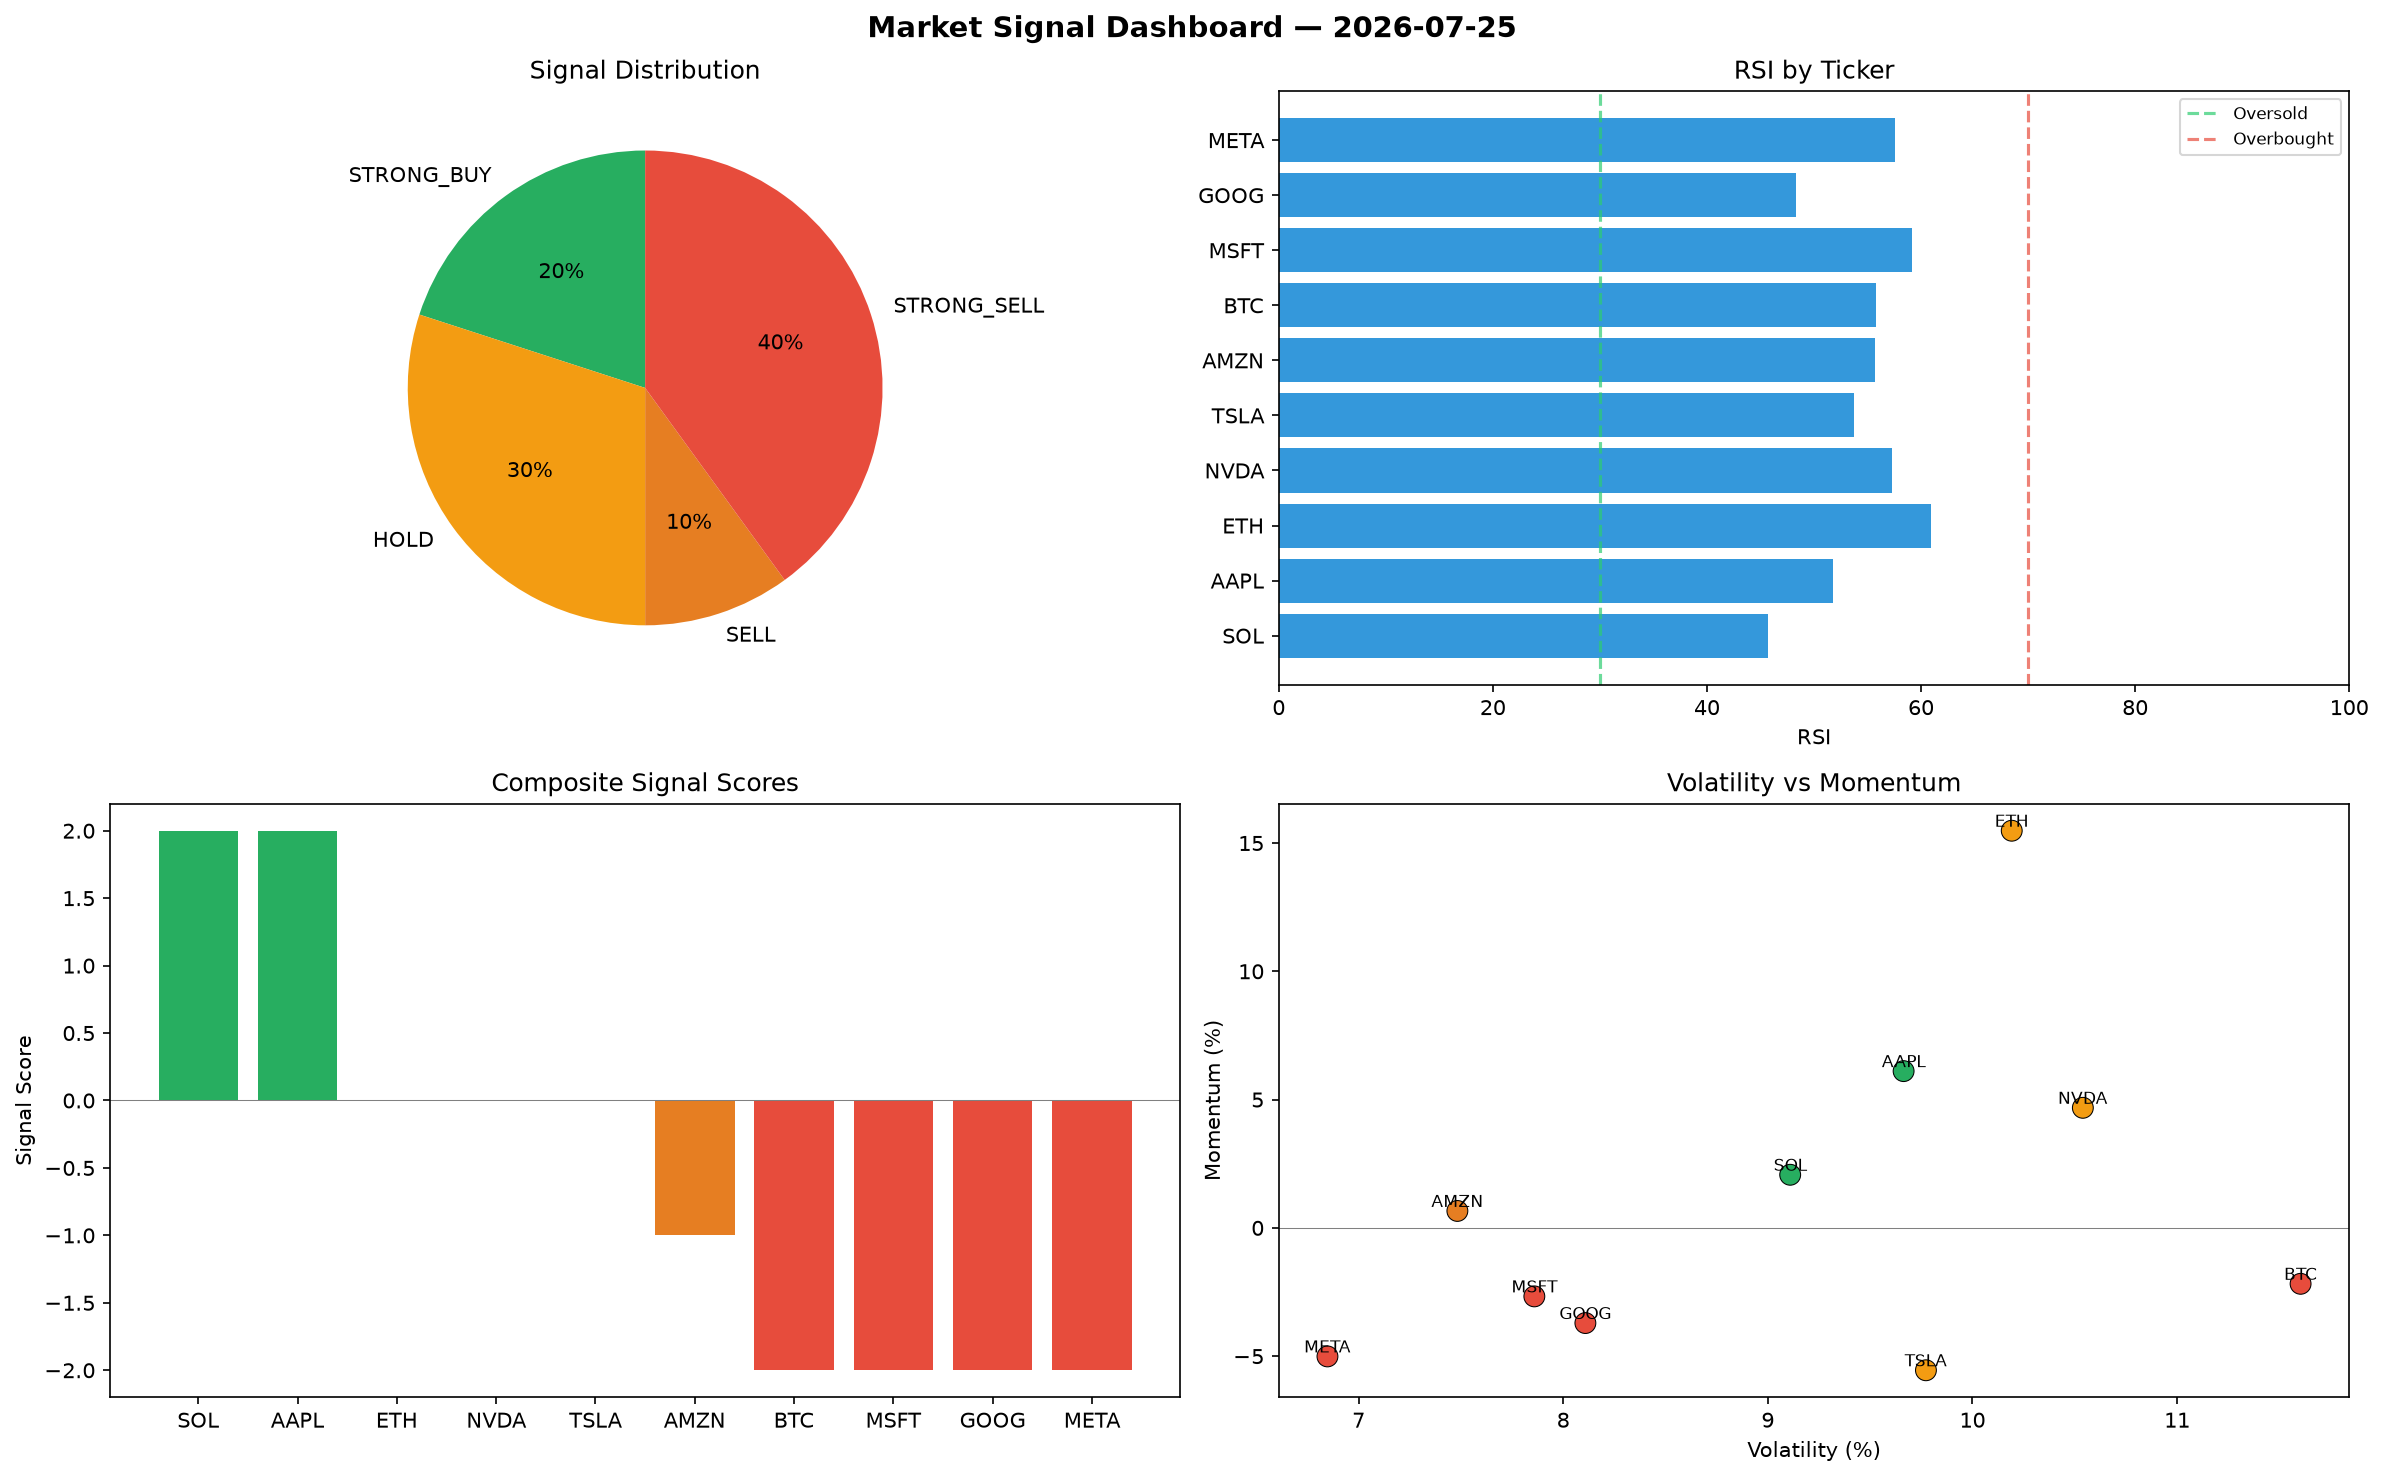
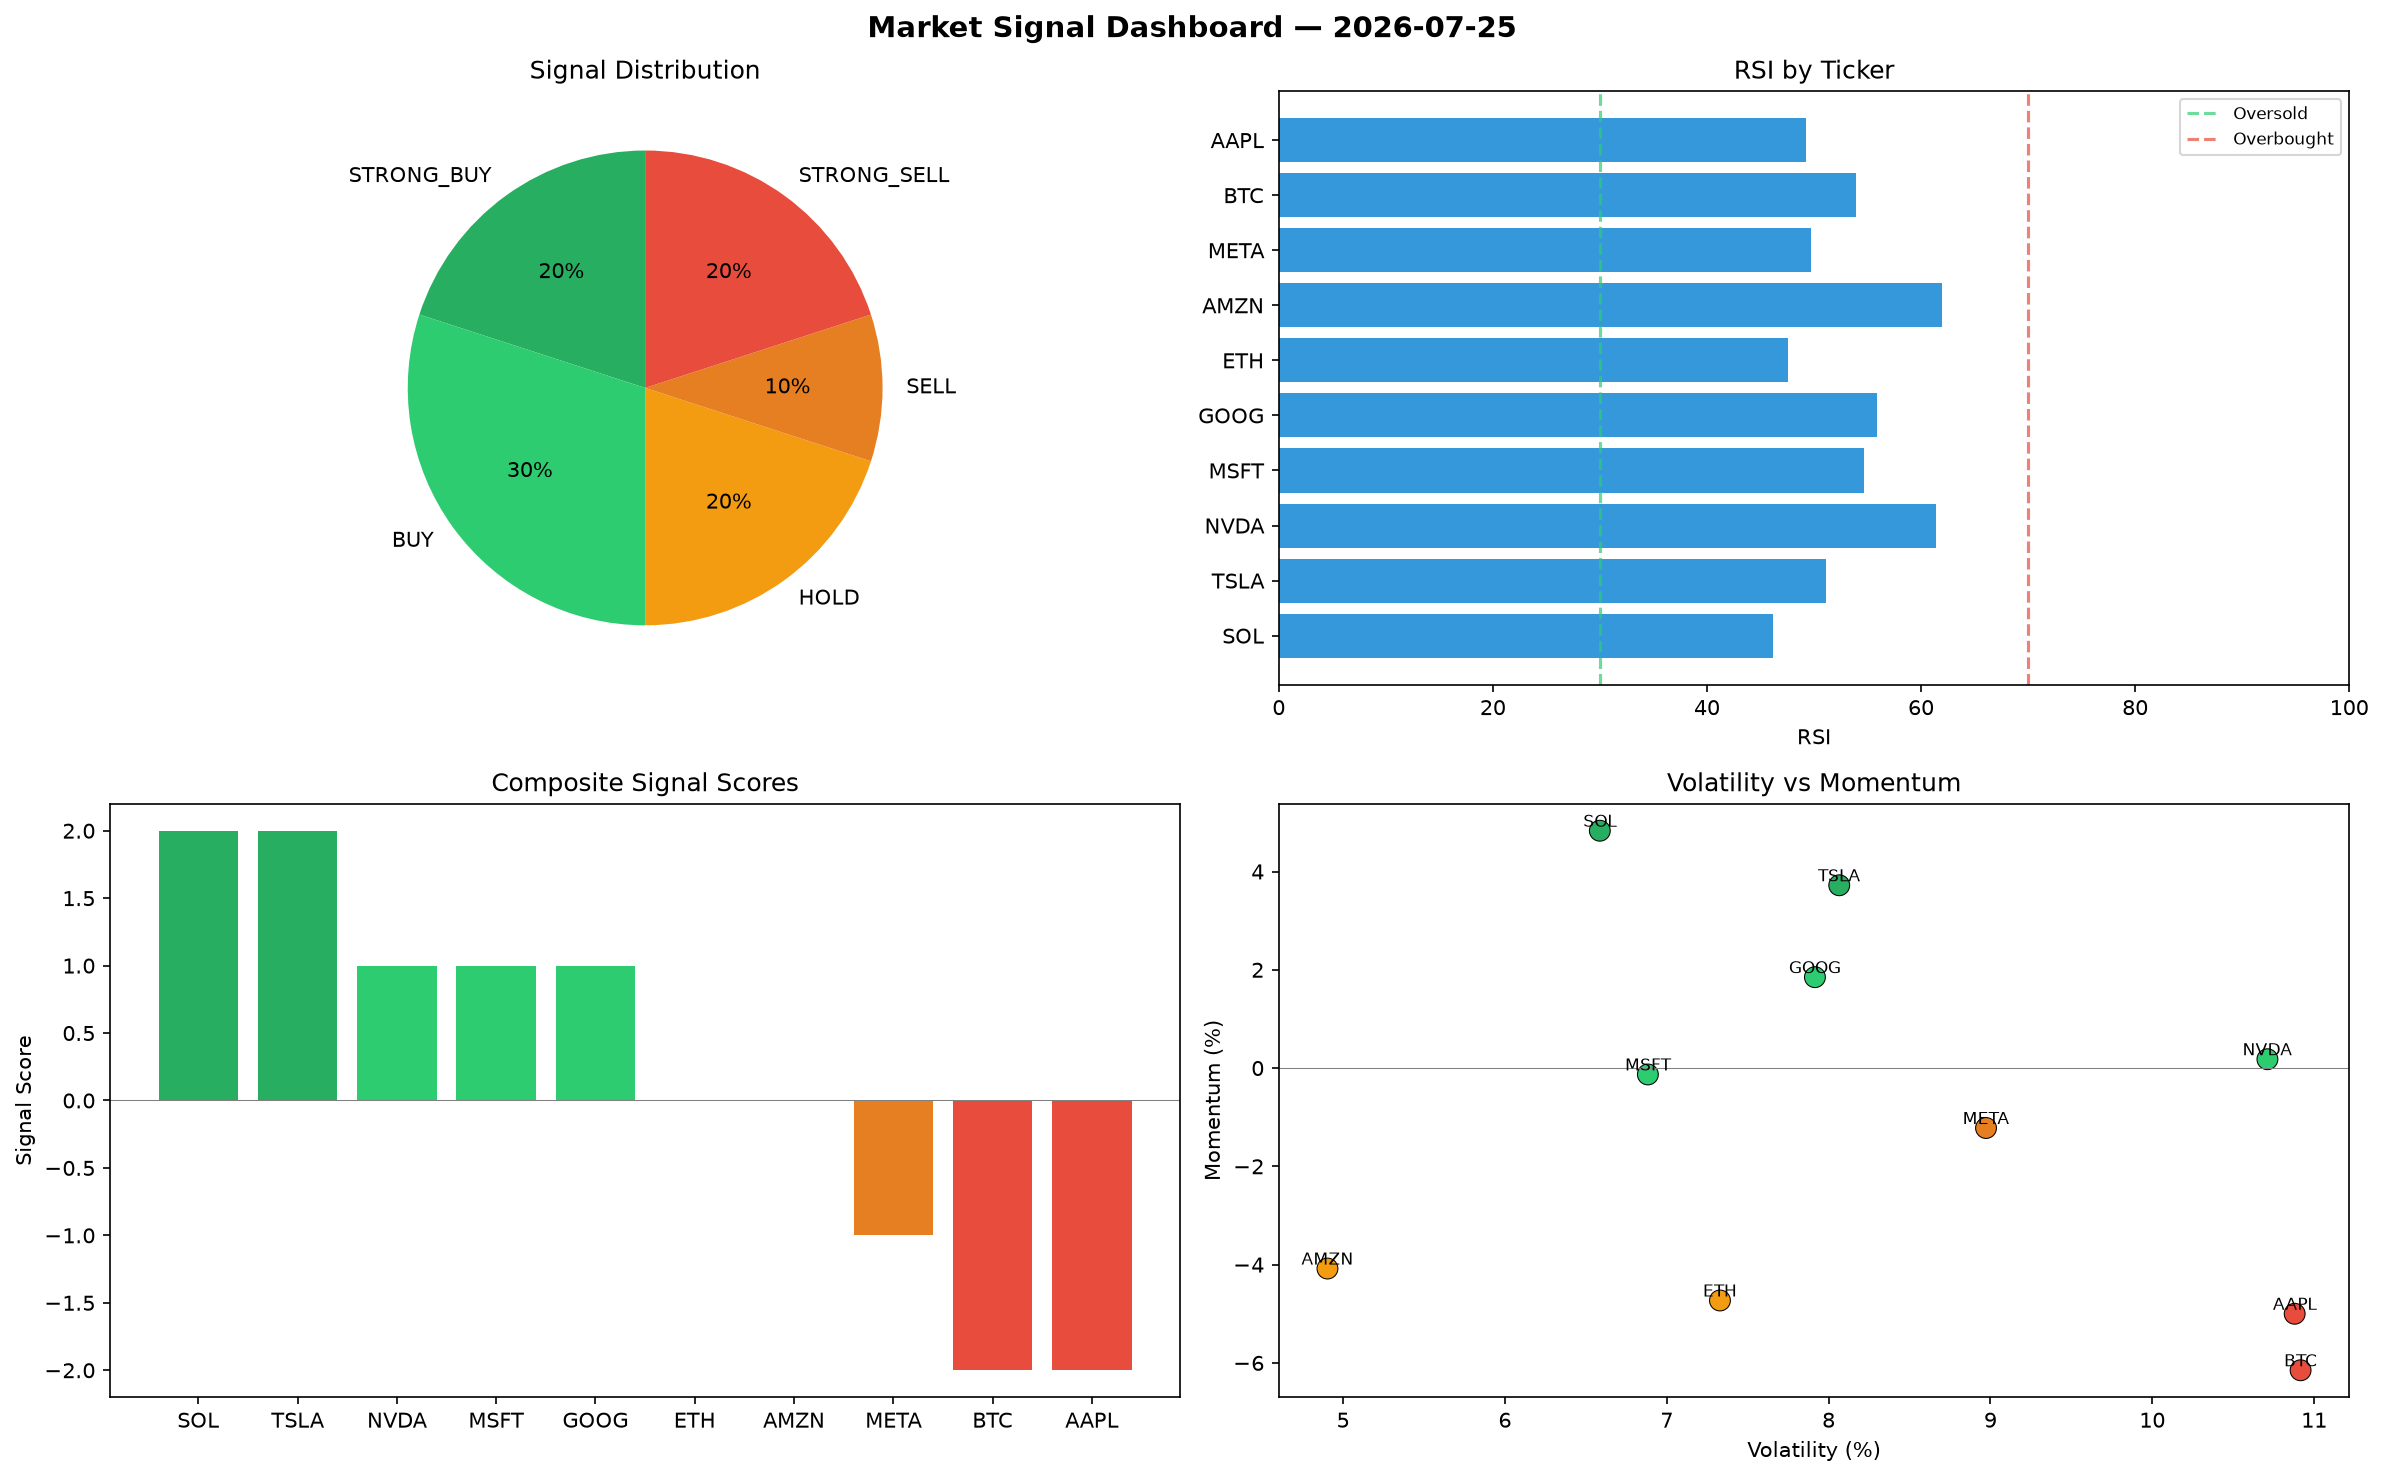
automated-bots: market signals 2026-07-25T15:39

diff --git a/logs/2026-07-25.md b/logs/2026-07-25.md
@@ -1,6 +1,6 @@
 # Market Signal Report — 2026-07-25
 
-**Run ID:** `1646fd0f2a` | **Buy:** 2 | **Sell:** 5 | **Hold:** 3
+**Run ID:** `08560d6b73` | **Buy:** 5 | **Sell:** 3 | **Hold:** 2
 
 ![Dashboard](2026-07-25_dashboard.png)
 
@@ -8,28 +8,28 @@
 
 | Ticker | Price | Signal | Score | RSI | Momentum | Confidence |
 |--------|-------|--------|-------|-----|----------|------------|
-| SOL | $1018.48 | **STRONG_BUY** | 2 | 45.67 | 0.0207 | 0.5 |
-| AAPL | $968.24 | **STRONG_BUY** | 2 | 51.74 | 0.0611 | 0.5 |
-| ETH | $4152.44 | **HOLD** | 0 | 60.95 | 0.1548 | 0.0 |
-| NVDA | $720.82 | **HOLD** | 0 | 57.3 | 0.0468 | 0.0 |
-| TSLA | $1116.71 | **HOLD** | 0 | 53.73 | -0.0555 | 0.0 |
-| AMZN | $3616.73 | **SELL** | -1 | 55.69 | 0.0066 | 0.25 |
-| BTC | $2800.98 | **STRONG_SELL** | -2 | 55.83 | -0.0218 | 0.5 |
-| MSFT | $2019.96 | **STRONG_SELL** | -2 | 59.12 | -0.0267 | 0.5 |
-| GOOG | $3543.38 | **STRONG_SELL** | -2 | 48.32 | -0.0371 | 0.5 |
-| META | $4529.12 | **STRONG_SELL** | -2 | 57.56 | -0.0501 | 0.5 |
+| SOL | $595.25 | **STRONG_BUY** | 2 | 46.21 | 0.0483 | 0.5 |
+| TSLA | $2623.59 | **STRONG_BUY** | 2 | 51.13 | 0.0372 | 0.5 |
+| NVDA | $2859.41 | **BUY** | 1 | 61.38 | 0.0018 | 0.25 |
+| MSFT | $610.14 | **BUY** | 1 | 54.71 | -0.0013 | 0.25 |
+| GOOG | $4010.3 | **BUY** | 1 | 55.91 | 0.0185 | 0.25 |
+| ETH | $1685.72 | **HOLD** | 0 | 47.54 | -0.0473 | 0.0 |
+| AMZN | $839.18 | **HOLD** | 0 | 61.95 | -0.0408 | 0.0 |
+| META | $1385.45 | **SELL** | -1 | 49.75 | -0.0122 | 0.25 |
+| BTC | $4514.5 | **STRONG_SELL** | -2 | 53.96 | -0.0615 | 0.5 |
+| AAPL | $3739.66 | **STRONG_SELL** | -2 | 49.29 | -0.05 | 0.5 |
 
 ## Delta vs Yesterday
 
 | Ticker | Today | Yesterday | Price Change | Signal Changed |
 |--------|-------|-----------|-------------|----------------|
-| SOL | STRONG_BUY | STRONG_SELL | 📉 -13.45% | ⚠ YES |
-| AAPL | STRONG_BUY | STRONG_SELL | 📈 215.44% | ⚠ YES |
-| ETH | HOLD | STRONG_SELL | 📈 77.41% | ⚠ YES |
-| NVDA | HOLD | STRONG_SELL | 📉 -77.9% | ⚠ YES |
-| TSLA | HOLD | HOLD | 📉 -75.51% | — |
-| AMZN | SELL | HOLD | 📈 92.56% | ⚠ YES |
-| BTC | STRONG_SELL | SELL | 📉 -11.26% | ⚠ YES |
-| MSFT | STRONG_SELL | STRONG_SELL | 📈 115.05% | — |
-| GOOG | STRONG_SELL | HOLD | 📈 1.51% | ⚠ YES |
-| META | STRONG_SELL | HOLD | 📈 53.98% | ⚠ YES |
+| SOL | STRONG_BUY | STRONG_SELL | 📉 -49.42% | ⚠ YES |
+| TSLA | STRONG_BUY | HOLD | 📉 -42.46% | ⚠ YES |
+| NVDA | BUY | STRONG_SELL | 📉 -12.34% | ⚠ YES |
+| MSFT | BUY | STRONG_SELL | 📉 -35.04% | ⚠ YES |
+| GOOG | BUY | HOLD | 📈 14.89% | ⚠ YES |
+| ETH | HOLD | STRONG_SELL | 📉 -27.98% | ⚠ YES |
+| AMZN | HOLD | HOLD | 📉 -55.32% | — |
+| META | SELL | HOLD | 📉 -52.9% | ⚠ YES |
+| BTC | STRONG_SELL | SELL | 📈 43.02% | ⚠ YES |
+| AAPL | STRONG_SELL | STRONG_SELL | 📈 1118.33% | — |
